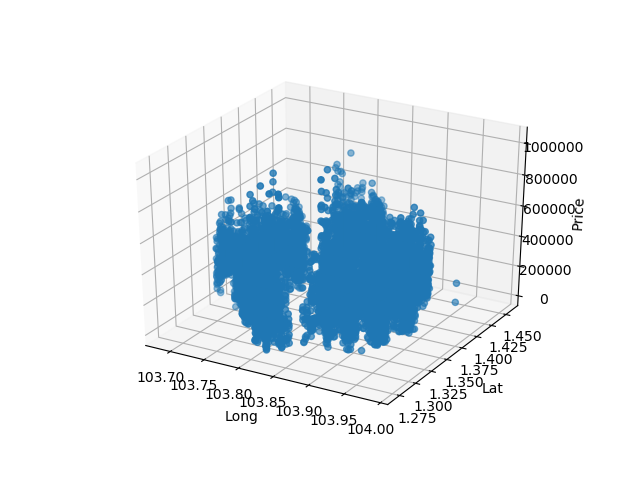
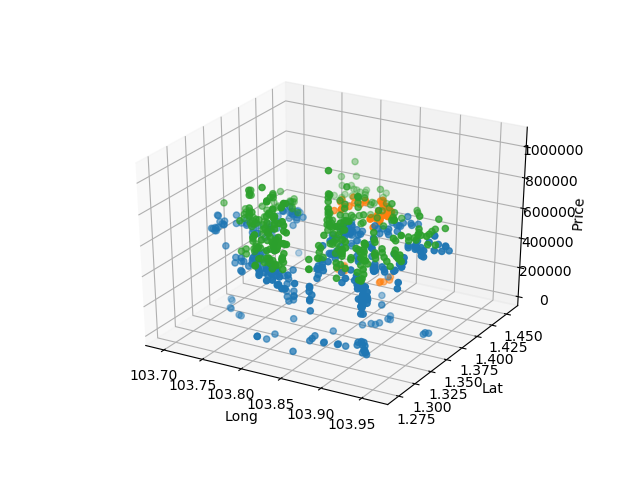
Edited clustering for 3d graph(latlong vs price)

Changed region(s): [[0.2188, 0.1875, 0.9062, 0.9062], [0.75, 0.6875, 0.8438, 0.7812], [0.6875, 0.7188, 0.7188, 0.75]]

diff --git a/clusteringDBSCAN.py b/clusteringDBSCAN.py
@@ -88,10 +88,10 @@ months_price,unscaled_months_price = create_data(num_months,resale_price)
 cluster_dbscan(months_price,unscaled_months_price,"Months against price")
 
 #lat long 
-lat_long_price = housing_data[1:40000,-3:]
-scaled_lat_long_price = scale(lat_long_price)
+unscaled_lat_long_price = housing_data[1:10000,-3:]
+lat_long_price = scale(unscaled_lat_long_price)
 # compute dbscan
-db = DBSCAN(eps=0.1, min_samples=50).fit(scaled_lat_long_price)
+db = DBSCAN(eps=0.5, min_samples=50).fit(lat_long_price)
 
 # Extract a mask of core cluster members
 core_samples_mask = np.zeros_like(db.labels_, dtype=bool)
@@ -104,8 +104,15 @@ unique_labels = set(labels)
 # Plot up the results!
 fig = plt.figure()
 ax = fig.add_subplot(projection='3d')
-
-ax.scatter(lat_long_price[:,1], lat_long_price[:,0], lat_long_price[:,2])
+colors = [plt.cm.Spectral(each)
+          for each in np.linspace(0, 1, len(unique_labels))]
+for k, col in zip(unique_labels, colors):
+    if k == -1:
+        # Black used for noise.
+        col = [0, 0, 0, 1]
+    class_member_mask = (labels==k)
+    xy = unscaled_lat_long_price[class_member_mask & ~core_samples_mask]
+    ax.scatter(xy[:, 1], xy[:, 0],xy[:,2])
 
 ax.set_xlabel('Long')
 ax.set_ylabel('Lat')
